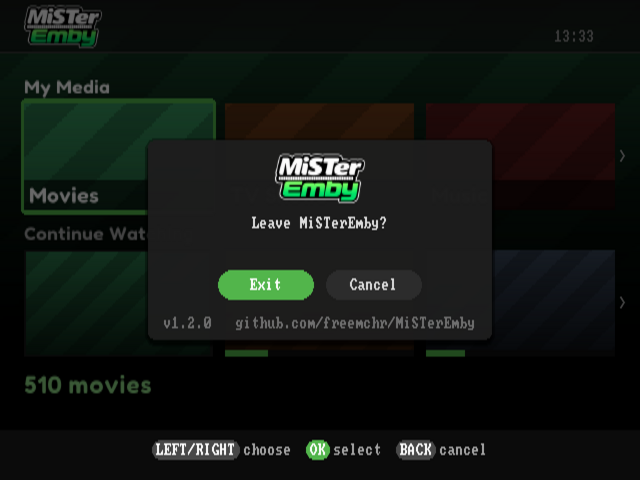
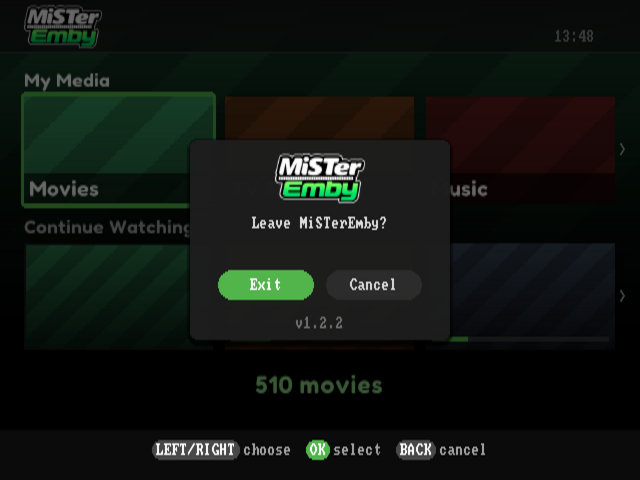
Exit dialog shows just the version; GitHub link moves to the what's-new notes
The project address under the exit buttons was more than that box needs
and can't be followed from a MiSTer anyway. The box is back to its own
width with only the version, small and dim. The address now ends the
what's-new screen, where the release notes it comes from are shown.

diff --git a/src/main.c b/src/main.c
@@ -1249,6 +1249,9 @@ static void changelog_prepare(FBDev *fb)
     /* Trim trailing blank lines so max-scroll lands on real content. */
     while (g_cl_count > 0 && !g_cl_lines[g_cl_count - 1][0]) g_cl_count--;
     if (g_cl_count == 0) cl_push("(no release notes)", 0);
+    /* Where the notes come from, for anyone after more than fits here. */
+    cl_push("", 0);
+    cl_push("github.com/freemchr/MiSTerEmby", 1);
 }
 
 static int changelog_rows(FBDev *fb)
@@ -1981,11 +1984,10 @@ static void draw_confirm_exit(FBDev *fb, int capture)
         memcpy(fb->back, g_exit_bg, sz);
     }
     const char *msg = "Leave MiSTerEmby?";
-    /* The only "about" there is: the version and where the project lives,
-     * quietly along the bottom of the box rather than a page of its own. */
-    const char *about = APP_VERSION "   github.com/freemchr/MiSTerEmby";
-    int w = text_width(fb, about, 1) + 32, h = 120;
-    if (w < 260) w = 260;
+    /* The version, quietly along the bottom of the box: what someone
+     * reporting a problem needs, without a page of its own. */
+    const char *about = APP_VERSION;
+    int w = 260, h = 120;
     int x = (fb->width - w) / 2, y = (fb->height - h) / 2;
     theme_dialog(fb, x, y, w, h, NULL);
     /* The logo's lettering heads the box (measured off-screen first, so it

diff --git a/README.md b/README.md
@@ -68,7 +68,7 @@ Rendered with `tools/run-local.sh` against the bundled mock server (`tools/mock-
 - **Sync with Emby**: resume positions and played state are read from and written back to Emby
 - **Emby dashboard integration**: the session shows up with transcoding info; remote pause/play/stop and admin messages work (messages show as a green banner)
 - **Its own look**: the MiSTerEmby logo and section titles, a rounded display font (Fredoka) for the big text, an Emby-green loading ring, and a green badge in the top bar when an update is out
-- **UI sounds**, a **SELECT+START screenshot** combo, an **opt-in debug log**, and an **in-app updater** from GitHub releases (START when the update badge shows). The exit dialog shows the version and where the project lives
+- **UI sounds**, a **SELECT+START screenshot** combo, an **opt-in debug log**, and an **in-app updater** from GitHub releases (START when the update badge shows). The exit dialog shows the version, and the what's-new screen links to the project on GitHub
 
 ## <a id="requirements"></a>Requirements
 
